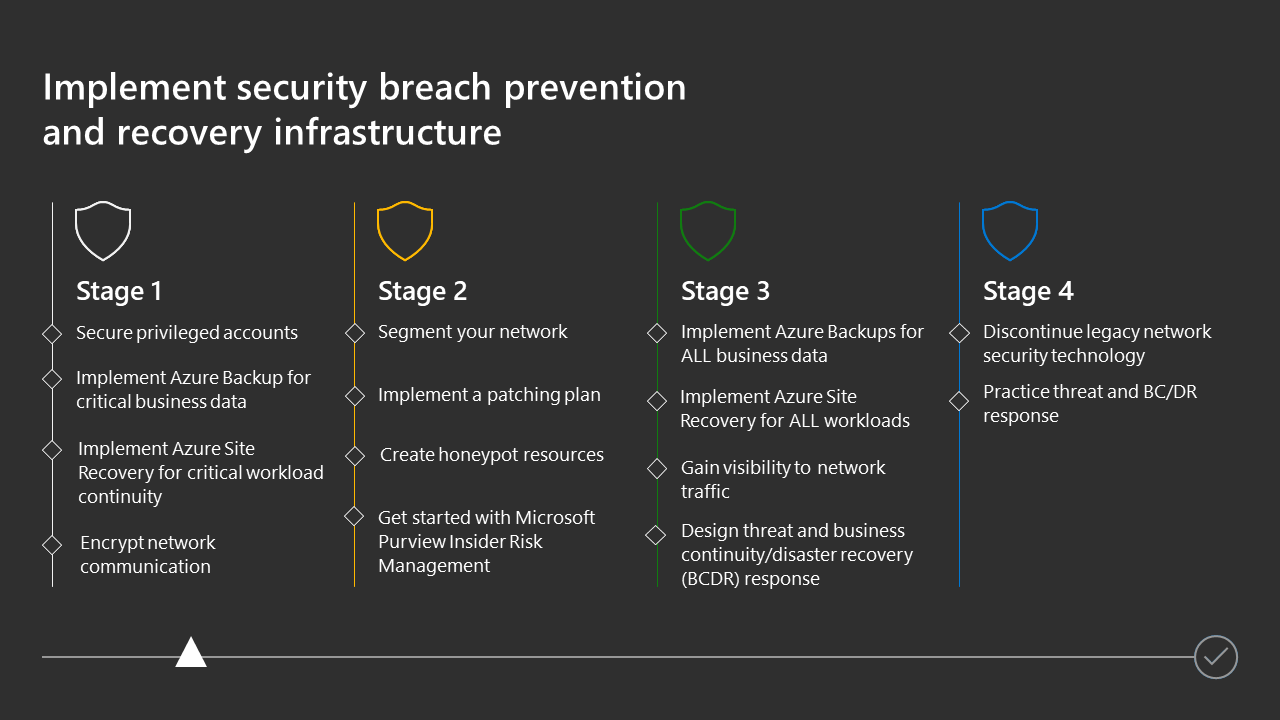
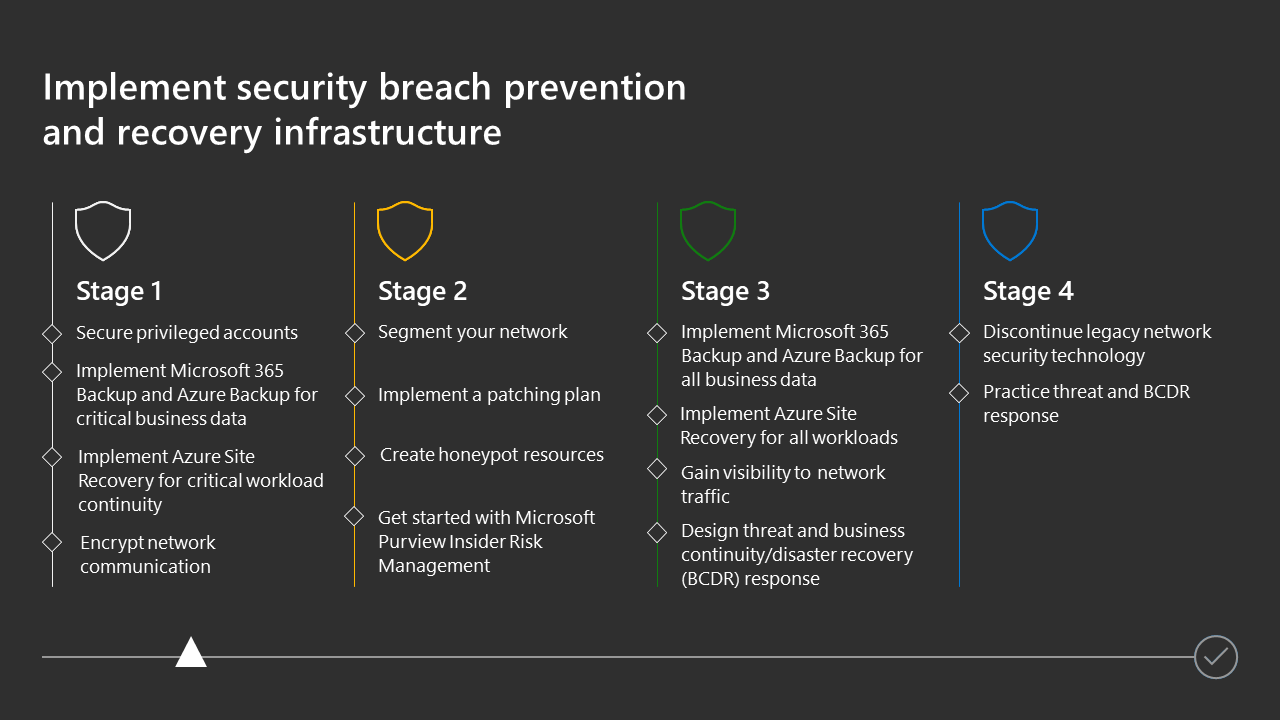
Tech review and editing changes.

diff --git a/zero-trust/adopt/prevent-reduce-business-damage-breach-infrastructure.md b/zero-trust/adopt/prevent-reduce-business-damage-breach-infrastructure.md
@@ -12,7 +12,7 @@ ms.collection:
 
 # Implement security breach prevention and recovery infrastructure
 
-As part of Zero Trust adoption guidance, this article is part of the part of the Prevent or reduce business damage from a breach (link to be added) business scenario and describes how to protect your organization from cyberattacks. This article focuses on how to deploy additional security measures to prevent a breach and limit its spread and to create and test a business continuity and disaster recovery (BCDR) infrastructure to more quickly recover from a destructive breach.
+As part of Zero Trust adoption guidance, this article is part of the [Prevent or reduce business damage from a breach](prevent-reduce-business-damage-breach.md) business scenario and describes how to protect your organization from cyberattacks. This article focuses on how to deploy additional security measures to prevent a breach and limit its spread and to create and test a business continuity and disaster recovery (BCDR) infrastructure to more quickly recover from a destructive breach.
 
 For the elements of the “assume breach” Zero Trust guiding principle:
 
@@ -79,7 +79,7 @@ Applying the overall goal of Zero Trust to “never trust, always verify” to y
 | Business outcomes | Breach prevention and recovery practices result in minimal costs associated with breaches and quick recovery of business processes. |
 | Governance | Breach prevention and recovery tools and systems are deployed and internal processes are tested and ready for breaches. |
 | Organizational resilience | Between security breach prevention and recovery and [proactive threat protection](prevent-reduce-business-damage-breach-threat-protection.md), your organization can recover from an attack quickly and prevent future attacks of its type. |
-| Security | Breach prevention and recovery is integrated into your overall security requirements and policies. |
+| Security | Breach prevention and recovery are integrated into your overall security requirements and policies. |
 
 ## Plan phase
 
@@ -102,7 +102,7 @@ Many organizations can take a four-staged approach to these deployment objective
 
 | Stage 1 | Stage 2 | Stage 3 | Stage 4 |
 | --- | --- | --- | --- |
-| Secure privileged accounts <br><br> Implement Microsoft 365 Backup and Azure Backup for **critical** business data <br><br> Implement Site Recovery for **critical** workload continuity <br><br> Encrypt network communication | Segment your network <br><br> Implement a patching plan <br><br> Create honeypot resources <br><br> Get started with Microsoft Purview Insider Risk Management | Implement Microsoft 365 Backup and Azure Backups for **all** business data <br><br> Implement Azure Site Recovery for **all** workloads <br><br> Gain visibility to network traffic <br><br> Design your threat and business continuity/disaster recovery (BCDR) response | Discontinue legacy network security technology <br><br> Practice threat and BCDR response |
+| Secure privileged accounts <br><br> Implement Microsoft 365 Backup and Azure Backup for **critical** business data <br><br> Implement Site Recovery for **critical** workload continuity <br><br> Encrypt network communication | Segment your network <br><br> Implement a patching plan <br><br> Create honeypot resources <br><br> Get started with Microsoft Purview Insider Risk Management | Implement Microsoft 365 Backup and Azure Backup for **all** business data <br><br> Implement Azure Site Recovery for **all** workloads <br><br> Gain visibility to network traffic <br><br> Design your threat and business continuity/disaster recovery (BCDR) response | Discontinue legacy network security technology <br><br> Practice threat and BCDR response |
 
 If this staged approach works for your organization, you can share your progress with your teams and business leaders by downloading [this PowerPoint slide deck](https://download.microsoft.com/download/a/b/5/ab51ac2a-e9de-4c8f-8323-6bc7c2f78c1f/ZeroTrust-Adoption-Resources.pptx) to track your progress through these stages and objectives. Here's the initial slide for this business scenario.
 
@@ -169,9 +169,9 @@ The Stage 1 deployment objectives include locking down administrator and other p
 
 Cybersecurity incidents typically begin with a credential theft of some sort. Attackers discover the account name, which can be a well-known or easily discovered email address, and then proceed to determine the password of the account. This type of attack can be thwarted in most cases by multi-factor authentication (MFA). However, the “assume breach” Zero Trust principle implies that an attacker can and will access your network using an identity.
 
-Once in your network, attackers try to elevate their level of privilege by compromising accounts with more and more access. The goal is to compromise a privileged account that has access to a wide swath of not only sensitive data, but to administrative settings as well. Therefore, it is imperative that you prevent this level of access to attackers.
+Once in your network, attackers try to elevate their level of privilege by compromising accounts with more and more access. The goal is to compromise a privileged account that has access to a wide swath of not only sensitive data, but to administrative settings as well. Therefore, it's imperative that you prevent this level of access to attackers.
 
-First, for hybrid identity organizations, you must ensure that administrator accounts or accounts holding privileged roles that are used for cloud services aren’t synchronized with and stored in on-premises Active Directory Domain Services (AD DS). If they are stored on-premises and AD DS or Microsoft Entra Connect is compromised, an attacker can have administrative control to your Microsoft cloud services. Review your synchronization settings to prevent and test whether your cloud administrator accounts are present in your AD DS.
+First, for hybrid identity organizations, you must ensure that administrator accounts or accounts holding privileged roles that are used for cloud services aren’t synchronized with and stored in on-premises Active Directory Domain Services (AD DS). If they're stored on-premises and AD DS or Microsoft Entra Connect is compromised, an attacker can have administrative control to your Microsoft cloud services. Review your synchronization settings to prevent and test whether your cloud administrator accounts are present in your AD DS.
 
 All organizations with a Microsoft cloud subscription have an Entra ID tenant that contains cloud accounts, which include user and administrative accounts. Administrators need to perform privileged operations in Microsoft Entra ID, Azure, Microsoft 365, or SaaS apps. 
 
@@ -210,7 +210,7 @@ Microsoft 365 Backup is a new offering (currently in preview) that backs up your
 
 For more information, see the [Microsoft 365 Backup overview](/microsoft-365/syntex/backup/backup-overview).
 
-The Azure Backup service provides simple, secure, and cost-effective solutions to back up your data and recover it from the Microsoft Azure cloud. Azure Backup can backup:
+The Azure Backup service provides simple, secure, and cost-effective solutions to back up your data and recover it from the Microsoft Azure cloud. Azure Backup can back up:
 
 - On-premises files, folders, system state, on-premises VMs (Hyper-V and VMware) and other on-premises workloads.
 - Azure VMs or files, folders, and system state.
@@ -293,7 +293,7 @@ A patching plan includes configuring automatic updating across all your entire o
 |:-----|:-----|
 | [Endpoint management at Microsoft](/mem/endpoint-manager-overview) | Get started with an overview of endpoint management solutions from Microsoft. |
 | [Endpoint management](/mem/) | Get started with the documentation to manage your endpoints. |
-| [Apply Zero Trust to Azure IaaS: Automate virtual machine updates](/security/zero-trust/azure-infrastructure-virtual-machines#automate-virtual-machine-updates) | Configure Azure automation of Windows and Linux-based virtual machines. |
+| [Apply Zero Trust to Azure IaaS: Automate virtual machine updates](/security/zero-trust/azure-infrastructure-virtual-machines#automate-virtual-machine-updates) | Configure automatic updates for Windows and Linux-based virtual machines. |
 | [Windows Update settings that you can manage through Intune policy](/mem/intune/protect/windows-update-settings) | Manage Windows Update settings for Windows 10 and Windows 11 with Microsoft Intune. |
 
 Also consider updates and patches needed by other devices, especially those that:
@@ -362,7 +362,7 @@ The consequences of a breach can run the spectrum of an attacker infecting devic
 
 In a crippling ransomware attack, your organization can suffer a long-term business disruption that is similar in many respects to a crisis or a natural disaster. Think about a breach and its resulting destructive cyberattack as a human-made crisis or disaster. 
 
-Therefore, it is important to include breaches and the possibility of a highly destructive cyberattack in your BCDR planning. The same infrastructure that you would use to continue your business operations in a crisis or after a natural disaster can and should be used to recover from an attack.
+Therefore, it's important to include breaches and the possibility of a highly destructive cyberattack in your BCDR planning. The same infrastructure that you would use to continue your business operations in a crisis or after a natural disaster can and should be used to recover from an attack.
 
 If you already have a BCDR plan in place, review it to ensure that it includes the data, devices, applications, and processes that could be impacted in a cyberattack. 
 
@@ -385,7 +385,7 @@ In this stage, you further secure your network and ensure that your BCDR plan an
 
 ##### Discontinue legacy network security technology
 
-Examine the set of technologies and products that your organization uses to provide network security and determine whether they are necessary or redundant with other network security capabilities. Each network security technology can also be a target for attackers. For example, if the technology or product isn’t being updated on a timely basis, consider removing it.
+Examine the set of technologies and products that your organization uses to provide network security and determine whether they're necessary or redundant with other network security capabilities. Each network security technology can also be a target for attackers. For example, if the technology or product isn’t being updated on a timely basis, consider removing it.
 
 For more information, see [Discontinue legacy network security technology](/security/zero-trust/deploy/networks#vii-discontinue-legacy-network-security-technology), which describes the types of network security technologies that you might no longer need.
 
@@ -412,7 +412,7 @@ Use the resources listed in this article to prioritize your plan. The work of im
 The staged approach recommended in this article includes cascading breach prevention and recovery work in a methodical way across your digital estate. At this phase, revisit these elements of the plan to be sure everything is ready to go:
 
 - Use of Entra PIM has been tested for administrator accounts and your IT admins are trained to use it
-- Your networking infrastructure has been tested for data encryption as needed, segmenting to filter access has been tested, and redundant legacy networking technologies have been determined and tests run to ensure operation if they are removed
+- Your networking infrastructure has been tested for data encryption as needed, segmenting to filter access has been tested, and redundant legacy networking technologies have been determined and tests run to ensure operation if they're removed
 - Your system patching practices have been tested for successful installation of updates and detection of failed updates
 - You have begun analysis of your insider risks and how to manage them
 - Your honeypot resources are deployed and have been tested along with your threat protection infrastructure to detect access

diff --git a/zero-trust/adopt/prevent-reduce-business-damage-breach.md b/zero-trust/adopt/prevent-reduce-business-damage-breach.md
@@ -24,7 +24,7 @@ Traditional approaches that focus on establishing perimeter-based security for o
 
 Forester concluded the following for 2021:
 
-   Nearly two-thirds of organizations were breached in the past year, and it cost them an average of $2.4 million per breach. – Forester, [The 2021 State of Enterprise Breaches (April 2022)](https://www.forrester.com/report/the-2021-state-of-enterprise-breaches/RES177333). 
+- Nearly two-thirds of organizations were breached in the past year, and it cost them an average of $2.4 million per breach. – Forester, [The 2021 State of Enterprise Breaches (April 2022)](https://www.forrester.com/report/the-2021-state-of-enterprise-breaches/RES177333). 
 
 With the cloud, bad actors don’t need to physically breach your private network perimeter. They can attack your cloud-based digital assets from anywhere in the world. 
 
@@ -32,7 +32,7 @@ Your organization’s health and reputation depend on your security strategy. Wi
 
 | Traditional threat protection with private network controls | Modern threat protection with Zero Trust |
 | --- | --- |
-| Traditional protection relies on perimeter-based security, where you trust everyone inside the private network. <br><br> Perimeter networks can include: <br><br> - Little network segmentation or security perimeters and open, flat networks. <br> - Minimal threat protection and static traffic filtering. <br> - Unencrypted internal traffic.	| The Zero Trust model moves network defenses from static, network-based perimeters to focus on users, devices, assets, and resources. <br><br> Assume that a breach can and will happen. Security risks can exist inside and outside your network, you are constantly under attack, and a security incident can happen at any time. A comprehensive and modern threat protection infrastructure can provide timely attack detection and response. <br><br> Minimize the blast radius of security incidents with layers of protection that, together, reduce the extent of the damage and how fast it can spread. |
+| Traditional protection relies on perimeter-based security, where you trust everyone inside the private network. <br><br> Perimeter networks can include: <br><br> - Little network segmentation or security perimeters and open, flat networks. <br> - Minimal threat protection and static traffic filtering. <br> - Unencrypted internal traffic.	| The Zero Trust model moves network defenses from static, network-based perimeters to focus on users, devices, assets, and resources. <br><br> Assume that a breach can and will happen. Security risks can exist inside and outside your network, you're constantly under attack, and a security incident can happen at any time. A comprehensive and modern threat protection infrastructure can provide timely attack detection and response. <br><br> Minimize the blast radius of security incidents with layers of protection that, together, reduce the extent of the damage and how fast it can spread. |
 
 To reduce the impact of a significant incident, all the following are essential:
 
@@ -50,9 +50,9 @@ The first step toward a robust security posture is determining how your organiza
 
 ## Assessing risk and your security posture
 
-When you decide to adopt a strategy to prevent breach and reduce the damage caused from one, it is important to consider and quantify the metric of risk. Strategically, the exercise of quantifying risk allows you to set a metric for your appetite for risk. This requires that you conduct a baseline risk assessment along with an analysis of the business-critical breaches that may affect your business. The combination of your documented risk appetite against breach scenarios which you’re willing to address forms the basis of a breach preparation and remediation strategy.
+When you decide to adopt a strategy to prevent breach and reduce the damage caused from one, it's important to consider and quantify the metric of risk. Strategically, the exercise of quantifying risk allows you to set a metric for your appetite for risk. This requires that you conduct a baseline risk assessment along with an analysis of the business-critical breaches that may affect your business. The combination of your documented risk appetite against breach scenarios that you’re willing to address forms the basis of a breach preparation and remediation strategy.
 
-Note that it is virtually impossible to prevent breaches as an absolute. As described in [Attacker return on investment](rapidly-modernize-security-posture.md#attacker-roi), the aim is to incrementally increase cyberattack friction to a point where the attackers that you’re able or willing to defend against no longer gain a viable return on investment from their attacks. The kind of attacks and the economic viability to defend should be captured as part of your risk analysis.
+Note that it's virtually impossible to prevent breaches as an absolute. As described in [Attacker return on investment](rapidly-modernize-security-posture.md#attacker-roi), the aim is to incrementally increase cyberattack friction to a point where the attackers that you’re able or willing to defend against no longer gain a viable return on investment from their attacks. The kind of attacks and the economic viability to defend should be captured as part of your risk analysis.
 
 Reducing damage from a breach gives considerable energy to options during and post breach, which allows your organization to recover quickly from an expected breach or type of breach. These breach types and the readiness to recover are defined in subsequent sections in this article.
 
@@ -104,7 +104,7 @@ Cyber security incidents typically begin with a credential theft of some sort. C
 
   Attacker tries a large list of possible passwords for a given account or set of accounts. Possible passwords can be based on public data about a user, such as birthdates in social media profiles.
 
-In all these cases, skilling and education is essential for both users as the target of phishing attacks and helpdesks as the target of vishing attacks. Helpdesks should have protocols in place to authenticate requesting users before performing sensitive actions on user accounts or permissions.
+In all these cases, skilling and education are essential for both users as the target of phishing attacks and helpdesks as the target of vishing attacks. Helpdesks should have protocols in place to authenticate requesting users before performing sensitive actions on user accounts or permissions.
 
 #### Devices
 
@@ -144,8 +144,8 @@ The following table provides reasons why business leaders across an organization
 | Chief Marketing Officer (CMO) | How the business is perceived both internally and externally shouldn’t be restricted based on a breach occurring or breach readiness. Learning how to communicate breach readiness and messaging internally and externally in response to a breach is a matter of preparation. A successful attack can become public knowledge, potentially harming brand value, unless a breach communication plan exists. |
 | Chief Information Officer (CIO) | The applications used by your organization must be resilient to attack while securing your organization's data. Security should be a measurable outcome and aligned with IT strategy. Breach prevention and breach management must be aligned with data integrity, privacy, and availability. |
 | Chief Information Security Officer (CISO) | Security must be aligned as a business imperative to the C-Suite. Breach readiness and response is aligned to achieving the primary business strategies, with technology security aligned to mitigation of business risk.  | 
-|Chief Operations Officer (COO) | The incident response process hinges on the leadership and strategic guidance provided by this role. It is imperative that preventive and responsive actions are carried out as aligned to corporate strategy. <br><br> Breach preparation in an “assume breach” posture means that all disciplines reporting to the COO must function at a level of breach readiness, ensuring that a breach can be isolated and mitigated quickly without pausing your business. |
-| Chief Financial Officer (CFO) | Breach preparation and mitigation is a function of budgeted security spend. Financial systems must be robust and can survive a breach. Financial data must be classified, secured, and backed up as a sensitive dataset. |
+|Chief Operations Officer (COO) | The incident response process hinges on the leadership and strategic guidance provided by this role. It's imperative that preventive and responsive actions are carried out as aligned to corporate strategy. <br><br> Breach preparation in an “assume breach” posture means that all disciplines reporting to the COO must function at a level of breach readiness, ensuring that a breach can be isolated and mitigated quickly without pausing your business. |
+| Chief Financial Officer (CFO) | Breach preparation and mitigation are functions of budgeted security spend. Financial systems must be robust and can survive a breach. Financial data must be classified, secured, and backed up as a sensitive dataset. |
 
 A Zero Trust approach solves several security problems arising from security breaches. You can emphasize the following benefits of a Zero Trust approach with your business leaders.
 

diff --git a/zero-trust/adopt/prevent-reduce-business-damage-breach-threat-protection.md b/zero-trust/adopt/prevent-reduce-business-damage-breach-threat-protection.md
@@ -248,7 +248,7 @@ Microsoft Sentinel is a cloud-native solution that provides security information
 |:-----|:-----|
 | [Implement Microsoft Sentinel and Microsoft Defender XDR for Zero Trust](/security/operations/siem-xdr-overview) | Get started with this solution documentation that also incorporates Zero Trust principles. |
 | Module: [Connect Microsoft Defender XDR to Microsoft Sentinel](/training/modules/connect-microsoft-defender-365-to-azure-sentinel/) | Learn about the configuration options and data provided by Microsoft Sentinel connectors for Microsoft Defender XDR. |
-| [Architect your Microsoft Sentinel workspace](/security/operations/siem-workspace) | Learn how to how to design and implement Microsoft Sentinel workspaces. |
+| [Architect your Microsoft Sentinel workspace](/security/operations/siem-workspace) | Learn how to design and implement Microsoft Sentinel workspaces. |
 | [Ingest data sources and configure incident detection in Microsoft Sentinel](/security/operations/ingest-data-sources) | Learn how to configure data connectors for data ingestion into your Microsoft Sentinel workspace.  |
 | Module: [Connect data to Microsoft Sentinel using data connectors](/training/modules/connect-data-to-azure-sentinel-with-data-connectors/) | Get an overview of the available data connectors for Microsoft Sentinel. |
 
